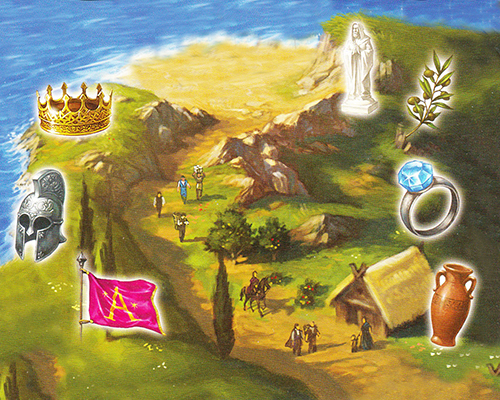
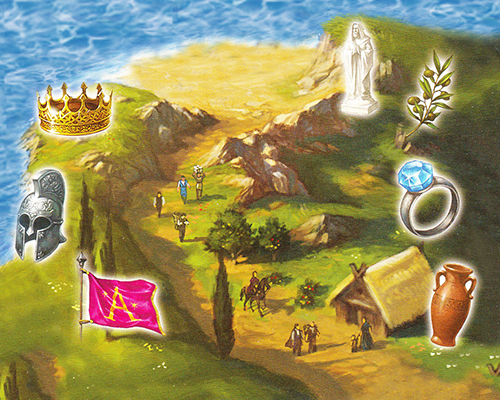
gameboard design wahnsinn

Changed region(s): [[0.0, 0.0, 1.0, 0.6]]

diff --git a/src/ch/fhnw/atlantis/resources/css/style.css b/src/ch/fhnw/atlantis/resources/css/style.css
@@ -1,6 +1,6 @@
 .root{
 
- -fx-background-image: url("../images/Atlantis_BG.jpg");
+ -fx-background-image: url("../images/background_Atlantis.png");
  -fx-background-repeat: no-repeat;
  -fx-background-attachment: fixed;
  -fx-background-position: bottom;
@@ -82,26 +82,6 @@ hBox cardPane{
  -fx-background-color: #ffffff;
 }
 
-#start {
-
- -fx-background-image: url("../images/start.png");
- -fx-background-repeat: no-repeat;
- -fx-background-attachment: fixed;
- -fx-background-position: bottom;
- -fx-background-opacity: 0.1;
- -fx-background-size: contain;
- }
-
-#end {
-
-  -fx-background-image: url("../images/ende.png");
-  -fx-background-repeat: no-repeat;
-  -fx-background-attachment: fixed;
-  -fx-background-position: bottom;
-  -fx-background-opacity: 0.1;
-  -fx-background-size: contain;
-  }
-
 #RankingBye{
    -fx-background-image: url("../images/gold-65821_1920.jpg");
    -fx-background-repeat: no-repeat;
@@ -114,13 +94,13 @@ hBox cardPane{
 .Pawn-P1{
     -fx-font-family: 'Material Icons';
     -fx-font-size: 40;
-    -fx-text-fill: #410b33;
+    -fx-text-fill: #da40ff;
 }
 
 .Pawn-P2{
     -fx-font-family: 'Material Icons';
     -fx-font-size: 40;
-    -fx-text-fill: #174123;
+    -fx-text-fill: #c00509;
 }
 .Pawn-P3{
     -fx-font-family: 'Material Icons';

diff --git a/src/ch/fhnw/atlantis/clientClasses/GUI/GameBoardView.java b/src/ch/fhnw/atlantis/clientClasses/GUI/GameBoardView.java
@@ -34,7 +34,7 @@ public class GameBoardView extends Pane {
 
     private Model model;
 
-    public Button btnFinishTurn, btnBuyCard, btnNextCard, btnPlayCard, btnNextTile, btnPlayTile ;
+    public Button btnFinishTurn, btnBuyCard, btnNextCard, btnPlayCard, btnNextTile, btnPlayTile;
 
     private Label p1;
     private Label p2;
@@ -56,15 +56,17 @@ public class GameBoardView extends Pane {
     private Label pawnP3;
     private Label pawnP4;
 
+    private Label showRules;
+
     private int maxColIndex, maxRowIndex;
 
     public static int DisplayMovementCard = 0;
     public static int DisplayPathTile = 0;
 
     public static int PositionXPawnP1 = 1;
-    public static int PositionYPawnP1 = 0;
+    public static int PositionYPawnP1 = 1;
     public static int PositionXPawnP2 = 2;
-    public static int PositionYPawnP2 = 0;
+    public static int PositionYPawnP2 = 1;
 
     public GameBoardView() throws FileNotFoundException {
 
@@ -80,14 +82,14 @@ public class GameBoardView extends Pane {
         playerGrid.setGridLinesVisible(false);
 
         // ------------------- Player Icons -------------------
-        player1 = new Label("\ue7FD");
+        player1 = new Label("\ue91D");
         playerGrid.setConstraints(player1, 1    , 0);
         playerGrid.setHalignment(player1, HPos.CENTER);
         pointsP1 = new Label("Im Ziel:\n0/3");
         playerGrid.setHalignment(pointsP1, HPos.CENTER);
         playerGrid.setConstraints(pointsP1, 2, 0 );
 
-        player2 = new Label("\ue7FD");
+        player2 = new Label("\ue532");
         playerGrid.setConstraints(player2, 6, 0);
         playerGrid.setHalignment(player2, HPos.CENTER);
         pointsP2 = new Label("Im Ziel:\n0/3");
@@ -201,9 +203,6 @@ public class GameBoardView extends Pane {
         btnPlayTile.setWrapText(true);
         btnPlayTile.setDisable(true);
 
-
-        gameBoard.setConstraints(pawnP3, 2, 0);
-        gameBoard.setConstraints(pawnP4, 2, 2);
         gameBoard.setConstraints(start, 0, 0, 3, 3);
 
         gameBoard.setConstraints(cardPane, 5, 7, 2, 3);
@@ -281,77 +280,6 @@ public class GameBoardView extends Pane {
 
     public void setScene(Scene scene) {
         this.scene = scene;
-    }
-
-
-    /**
-     * Methode zum zeichnen der Tiles und Karten auf dem Spielbrett
-     */
-    int co = 2;
-    int ro = 1;
-
-    // add stacks to the mainBoard
-    private void addToMainBoard(Tile water) {
-
-        if (((ro == 1) || (ro == 5) || (ro == 9)) && co != maxColIndex) {
-
-            gameBoard.add(water, co, ro);
-            co++;
-        } else if (co == maxColIndex && ((ro == 1) || (ro == 5) || (ro == 9))) {
-
-            gameBoard.add(water, maxColIndex - 1, ro + 1);
-            ro += 2;
-            co -= 1;
-        } else if (((ro == 3) || (ro == 7) || (ro == 11)) && co <= maxColIndex && co != 0) {
-
-            gameBoard.add(water, co, ro);
-            co--;
-
-        } else if (co == 0 && ((ro == 3) || (ro == 7) || (ro == 11))) {
-            gameBoard.add(water, 1, ro + 1);
-            ro += 2;
-            co += 1;
-        }
-    }
-
-    // this method adds a Rectangle and Text to each landtile
-    public void addRecAndText(ArrayList<Tile> base) throws FileNotFoundException {
-        //this.base = base;
-        for (int i = 0; i < base.size(); i++) {
-
-            Tile water = base.get(i);
-            water.setBackground(new Background(new BackgroundImage(getImage("water.jpg"), BackgroundRepeat.NO_REPEAT,
-                    BackgroundRepeat.NO_REPEAT, BackgroundPosition.CENTER, BackgroundSize.DEFAULT)));
-            //water.convertToChildren();
-
-            //if (water.getChildren().size() != 0) {
-            //    for (int k = 0; k < water.getChildren().size(); k++) {
-//
-            //        Tile tile = (Tile) water.getChildren().get(k);
-            //        ImageView iV = new ImageView();
-            //        iV.setFitWidth(60);
-            //        iV.setFitWidth(60);
-            //        tile.getChildren().addAll(iV,
-            //                new Text(String.valueOf(tile.getTileValue()) + "\n" + tile.getColor().toString()));
-//
-            //    }
-            //}
-
-            addToMainBoard(water);
-        }
-
-    }
-
-    /**
-     * Methode zum zeichnen eines Wasserplättchen
-     * @param card
-     */
-
-
-    private void addWater(Card card) {
-
-        //card.setImage(new ImageView(new ImageLoader().getImage("./../../resources/images/water.jpg")));
-
     }
 
     public Button getBtnBuyCard() {
@@ -517,6 +445,8 @@ public class GameBoardView extends Pane {
     public Button getBtnPlayTile() {
         return btnPlayTile;
     }
+
+    public Label getShowRules() {return showRules; }
 
     public Label getPlayer1() {
         return player1;

diff --git a/src/ch/fhnw/atlantis/clientClasses/GUI/GameBoardController.java b/src/ch/fhnw/atlantis/clientClasses/GUI/GameBoardController.java
@@ -63,8 +63,8 @@ public class GameBoardController {
 
         // ------------------- CSS Styling der Gameboard Elemente  -------------------
 
-        view.getPlayer1().getStyleClass().add("Playerbefore");
-        view.getPlayer2().getStyleClass().add("Playerbefore");
+        view.getPlayer1().getStyleClass().add("Pawn-P1");
+        view.getPlayer2().getStyleClass().add("Pawn-P2");
         view.getPlayer3().getStyleClass().add("Playerbefore");
         view.getPlayer4().getStyleClass().add("Playerbefore");
 
